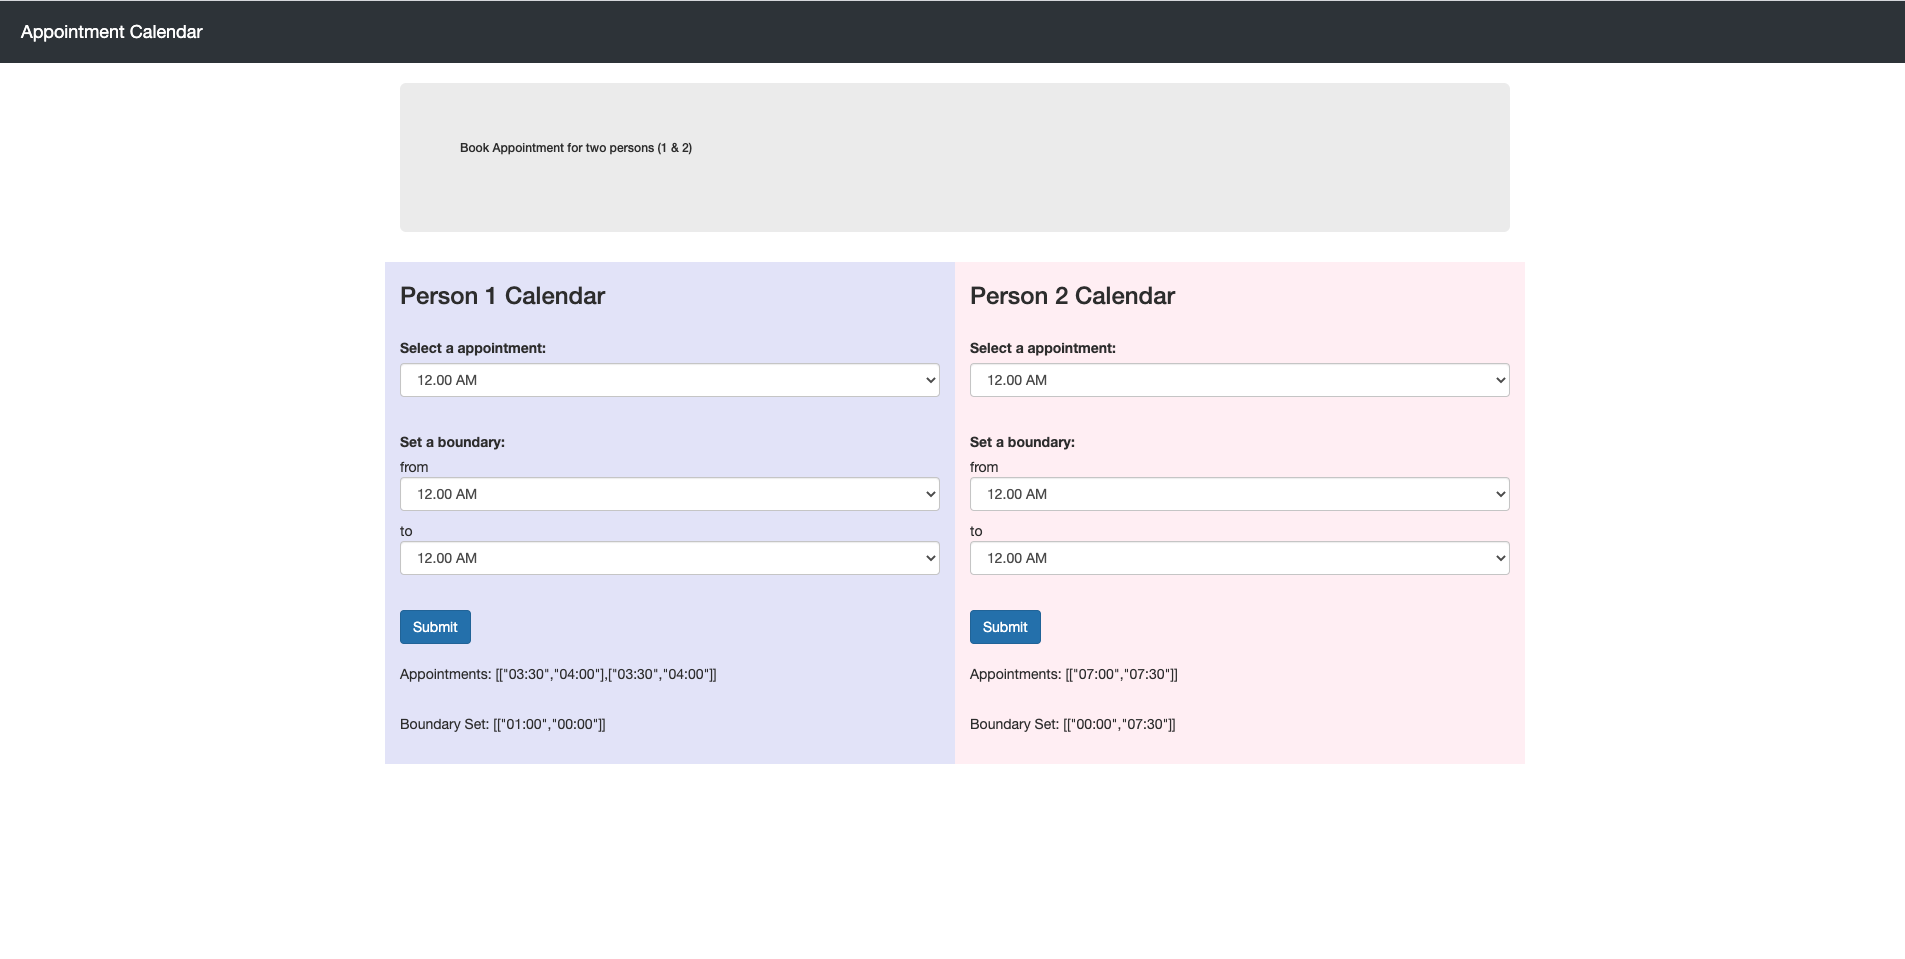
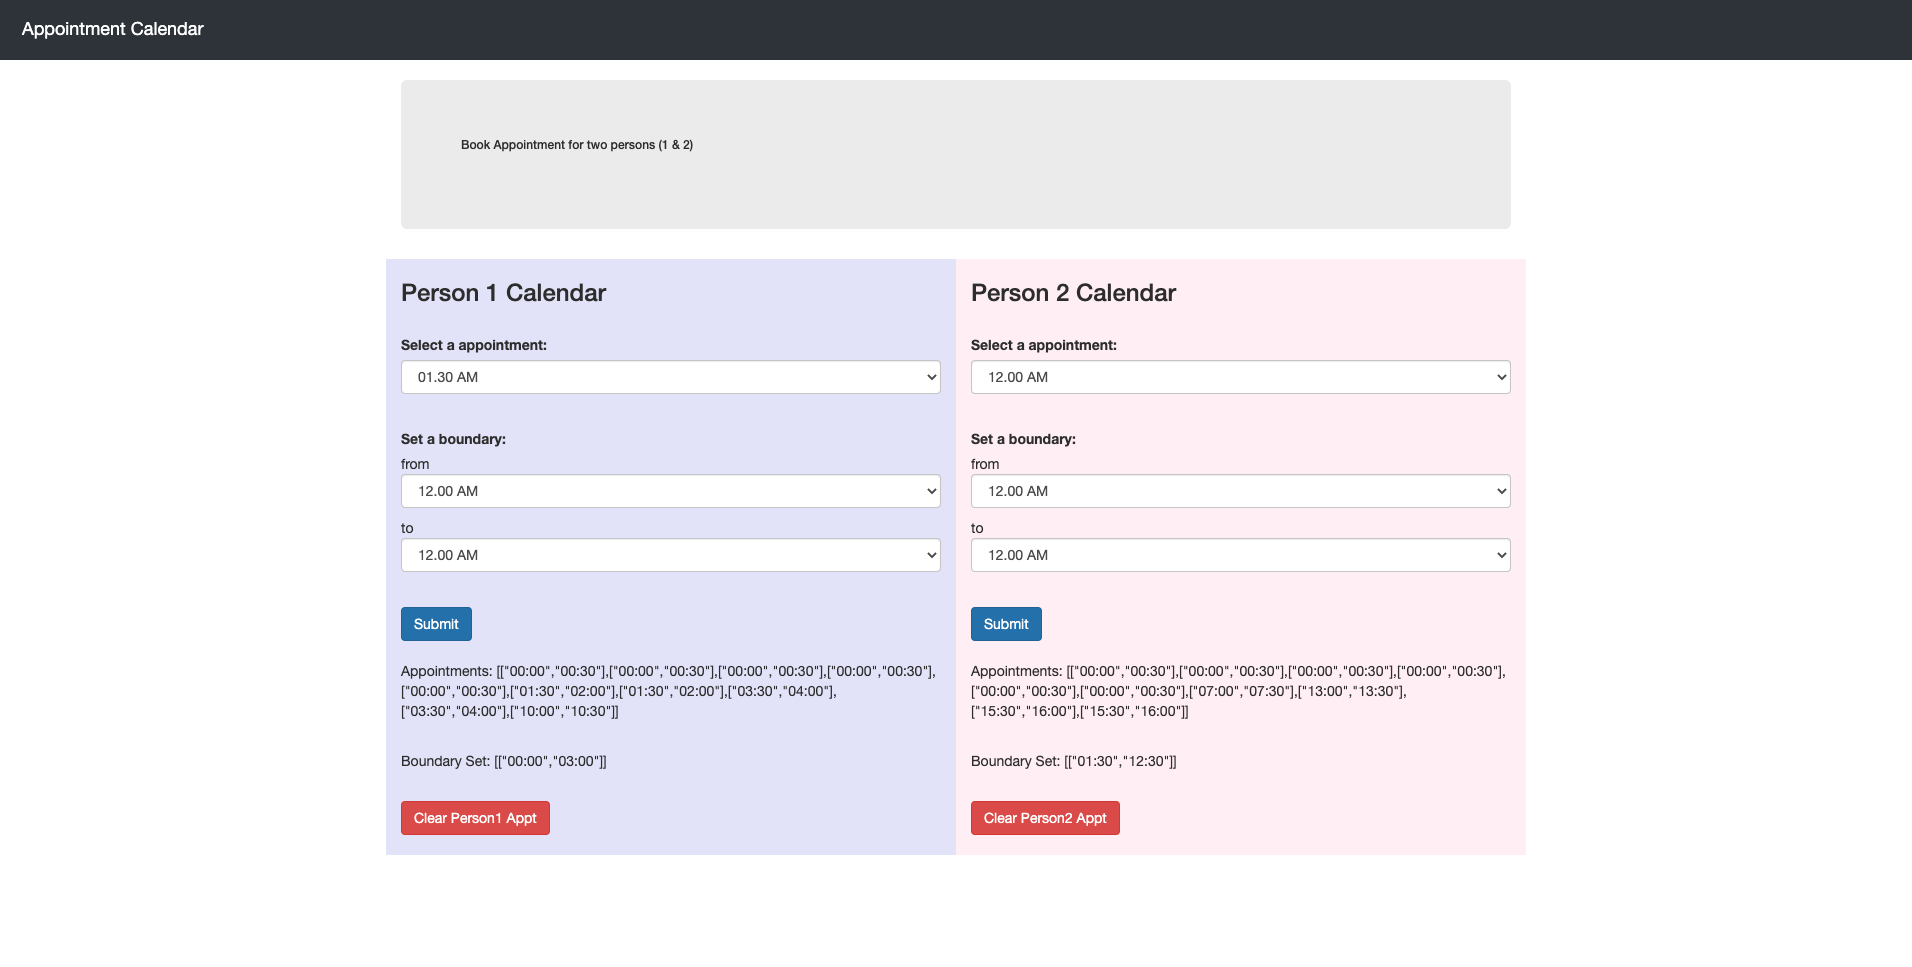
added delete appointment functionality

diff --git a/views/index.php b/views/index.php
@@ -3,8 +3,7 @@
  require('../models/Appointment.php');
  $appt1_times = TimeListController::getAppointmentTimes(2);
  $appt2_times = TimeListController::getAppointmentTimes(1);
- $bound1_times = TimeListController::getBoundaryTimes(1);
- $bound2_times = TimeListController::getBoundaryTimes(2);
+ $bound_times = TimeListController::getBoundaryTimes();
  $appointment = new Appointment();
  $boundary = new Boundary();
  $appt1 =  $appointment->getPersonalAppointment(1);
@@ -48,8 +47,8 @@
                 </div><br/>
                 <div class="form-group">
                     <label for="boundary1">Set a boundary:</label>
-                    <p>from <select type="time" class="form-control" id="boundary1" name="from"><?php echo $bound1_times; ?></select></p>
-                    <p>to  <select  type="time" class="form-control" id="boundary1.2" name="to"><?php echo $bound1_times; ?></select></p>
+                    <p>from <select type="time" class="form-control" id="boundary1" name="from"><?php echo $bound_times; ?></select></p>
+                    <p>to  <select  type="time" class="form-control" id="boundary1.2" name="to"><?php echo $bound_times; ?></select></p>
                 </div><br/>
                 <input name="person_id" value="1" hidden/>
                 <button type="submit" class="btn btn-primary">Submit</button><br/><br/>
@@ -74,6 +73,11 @@
                 }
                 ?>
             </p><br/>
+            <form action="/delete" method="post">
+                <input name="person_id" value="1" hidden/>
+                <input name="delete" value="yes" hidden/>
+               <button type="submit" class="btn btn-danger">Clear Person1 Appt</button><br/><br/>
+            </form>
         </div>
 
         <div class="col-sm-6" style="background-color:lavenderblush;">
@@ -85,8 +89,8 @@
                 </div><br>
                 <div class="form-group">
                     <label for="boundary2">Set a boundary:</label>
-                    <p>from <select type="time" class="form-control" id="boundary2" name="from"><?php echo $bound2_times; ?></select></p>
-                    <p>to   <select type="time" class="form-control" id="boundary2.2" name="to"><?php echo $bound2_times; ?></select></p>
+                    <p>from <select type="time" class="form-control" id="boundary2" name="from"><?php echo $bound_times; ?></select></p>
+                    <p>to   <select type="time" class="form-control" id="boundary2.2" name="to"><?php echo $bound_times; ?></select></p>
                 </div><br/>
                 <input name="person_id" value="2" hidden/>
                 <button type="submit" class="btn btn-primary">Submit</button><br/><br/>
@@ -111,6 +115,11 @@
                 }
                 ?>
             </p><br/>
+            <form action="/delete" method="post">
+                <input name="person_id" value="2" hidden/>
+                <input name="delete" value="yes" hidden/>
+                <button type="submit" class="btn btn-danger">Clear Person2 Appt</button><br/><br/>
+            </form>
         </div>
     </div>
 </div>

diff --git a/models/Boundary.php b/models/Boundary.php
@@ -3,7 +3,6 @@
 
 class Boundary
 {
-    private $conn;
 
     private $db_table = "boundaries";
 
@@ -13,7 +12,12 @@ class Boundary
     public $time_to;
     public $created_at;
 
-
+    /**
+     *
+     * Creates boundary record
+     *
+     * @return null
+     */
     public function createBoundary($request){
         try {
             $conn = new Database();
@@ -44,6 +48,12 @@ class Boundary
         }
     }
 
+    /**
+     *
+     * Updates boundary record
+     *
+     * @return null
+     */
     public function updateBoundary($request){
         try {
             $conn = new Database();
@@ -74,6 +84,12 @@ class Boundary
     }
 
 
+    /**
+     *
+     * Gets the boundary record for the person
+     *
+     * @return array of boundary record
+     */
     public function getPersonalBoundary($person_id)
     {
         try {
@@ -95,8 +111,12 @@ class Boundary
         }
     }
 
-
-
+    /**
+     *
+     * Deletes boundary record
+     *
+     * @return null
+     */
     function deleteAllBoundaries($person_id)
     {
         try {
@@ -112,6 +132,11 @@ class Boundary
         }
     }
 
+    /**
+     * Checks if boundary record already exists
+     *
+     * @return null
+     */
     public function checkIfRecordExists(){
         try {
             //$sql = "DELETE FROM " . $this->db_table . "  WHERE person_id=?";

diff --git a/models/Appointment.php b/models/Appointment.php
@@ -13,13 +13,23 @@ class Appointment extends Database
     protected  $created_at;
     protected  $boundary;
 
-
+    /**
+     *
+     * Instantiates boundary class
+     *
+     * @return null
+     */
     public function __construct()
     {
         $this->boundary = new BoundaryController();
     }
 
-
+    /**
+     *
+     * Creates appointment record
+     *
+     * @return null
+     */
     public function createAppointment($request){
         try {
             $conn = new Database();
@@ -52,7 +62,12 @@ class Appointment extends Database
         }
     }
 
-
+    /**
+     *
+     * Gets the appointment record for the person
+     *
+     * @return array of appointment record
+     */
     public function getPersonalAppointment($person_id)
     {
         try {
@@ -75,7 +90,12 @@ class Appointment extends Database
     }
 
 
-
+    /**
+     *
+     * Deletes appointment record
+     *
+     * @return null
+     */
     function deleteAllAppointments($person_id)
     {
         try {
@@ -85,6 +105,8 @@ class Appointment extends Database
         $stmt = $connection->prepare($sql);
         $stmt->bind_param("i", $person_id);
         $stmt->execute();
+        header("Location: /");
+        exit();
         }
         catch(Exception $e) {
             echo 'Message: ' .$e->getMessage();

diff --git a/controllers/TimeListController.php b/controllers/TimeListController.php
@@ -4,10 +4,9 @@
 class TimeListController
 {
     /**
+     * Get available appointments
      *
-     * Get times as option-list.
-     *
-     * @return string List of times
+     * @return string list of times
      */
      public function getAppointmentTimes($person_id): string {
 
@@ -18,31 +17,27 @@ class TimeListController
         $interval = '+30 minutes';
         $output = '';
 
-        //$current = strtotime('00:00');
-        //$end = strtotime('23:59');
-
          $current = strtotime($data[0][0]);
          $end = strtotime(  $data[0][1]);
 
-        while ($current <= $end) {
+         while ($current <= $end) {
             $time = date('H:i', $current);
             $sel = ($time == $default) ? ' selected' : '';
 
             $output .= "<option value=\"{$time}\"{$sel}>" . date('h.i A', $current) .'</option>';
             $current = strtotime($interval, $current);
-        }
+         }
 
         return $output;
     }
 
 
     /**
+     * Get available boundary times
      *
-     * Get times as option-list.
-     *
-     * @return string List of times
+     * @return string list of times
      */
-    public function getBoundaryTimes($person_id): string {
+    public function getBoundaryTimes(): string {
 
         $default = '00:00';
         $interval = '+30 minutes';

diff --git a/controllers/AppointmentController.php b/controllers/AppointmentController.php
@@ -9,7 +9,8 @@ class AppointmentController extends Appointment
     protected $boundary;
 
     /**
-     * Constructor from calling create appointment method
+     * Constructor that calls create appointment method
+     * Sets up boundary class via dependency injection
      * @param $request
      * @param BoundaryController $boundary
      */
@@ -17,16 +18,34 @@ class AppointmentController extends Appointment
     {
         $this->request = $request;
         $this->boundary = $boundary;
-        $this->create();
-
+        if($this->request['delete'] == 'yes'){
+            $this->delete();
+        }else{
+            $this->create();
+        }
 
     }
 
+    /**
+     * Calls the create appointment model method
+     *
+     * @return null
+     */
     public function create(){
         if($this->request['appt']){
             $this->createAppointment($this->request);
         }
 
+    }
+
+
+    /**
+     * Calls the delete appointment model method
+     *
+     * @return null
+     */
+    public function delete(){
+       $this->deleteAllAppointments($this->request['person_id']);
     }
 
 }

diff --git a/controllers/BoundaryController.php b/controllers/BoundaryController.php
@@ -7,7 +7,12 @@ class BoundaryController extends Boundary
 
     protected $request;
 
-
+    /**
+     *
+     * Checks if boundary record exists and update or create accordingly
+     *
+     * @return null
+     */
     public function create($request){
         $this->request = $request;
         if($this->request['from'] AND $this->request['to']){

diff --git a/config/Database.php b/config/Database.php
@@ -11,9 +11,7 @@ class Database {
     }
 
     public function getConnection(){
-        // Check connection
         $conn = new mysqli($this->host, $this->username, $this->password, $this->database_name);
-        // Check connection
         if ($conn->connect_error) {
             die("Connection failed: " . $conn->connect_error);
         }else{

diff --git a/public/index.php b/public/index.php
@@ -13,5 +13,11 @@ Route::add('/action',function(){
     new AppointmentController($_POST, new BoundaryController());
 },'post');
 
+Route::add('/delete',function(){
+    require '../controllers/AppointmentController.php';
+    new AppointmentController($_POST, new BoundaryController());
+},'post');
+
+
 Route::run('/');
 

diff --git a/README.md b/README.md
@@ -34,6 +34,9 @@
   
   
 - Navigate to your host domain to view/interact with the calendar application
+
+###### Important Note!!
+- To test that the appointment inputs shown are not outside the boundary, you must make sure the 'from' boundary time is not higher than the 'to'
   
 ###### Application Screenshot
 ![Screenshot](screenshot.png)
